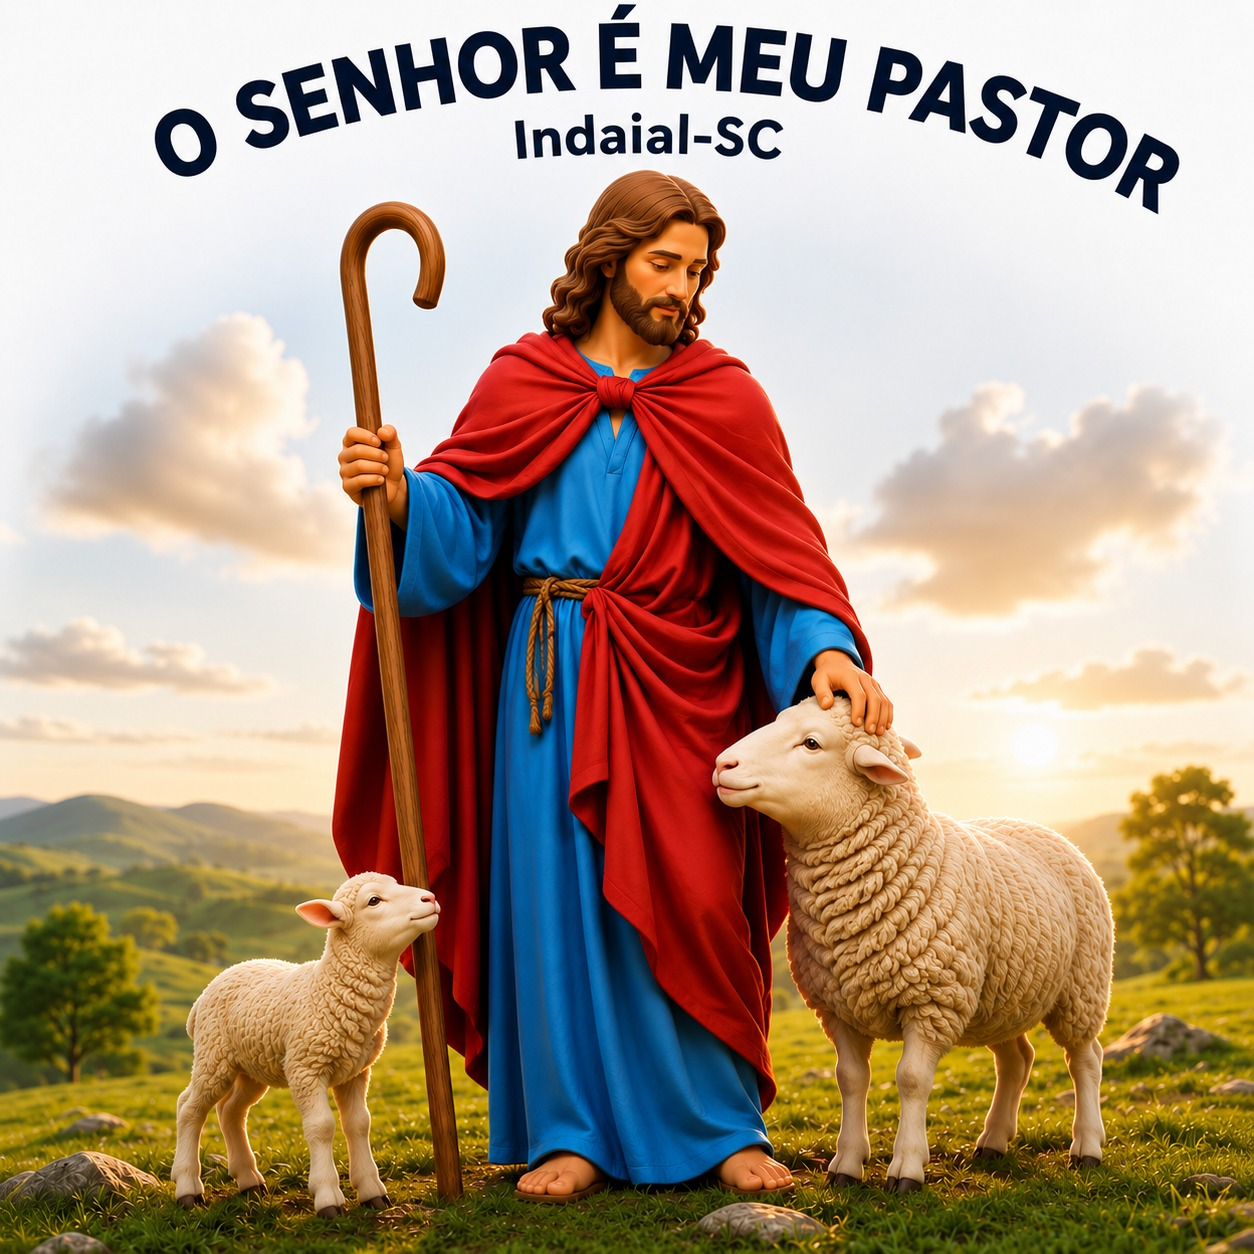
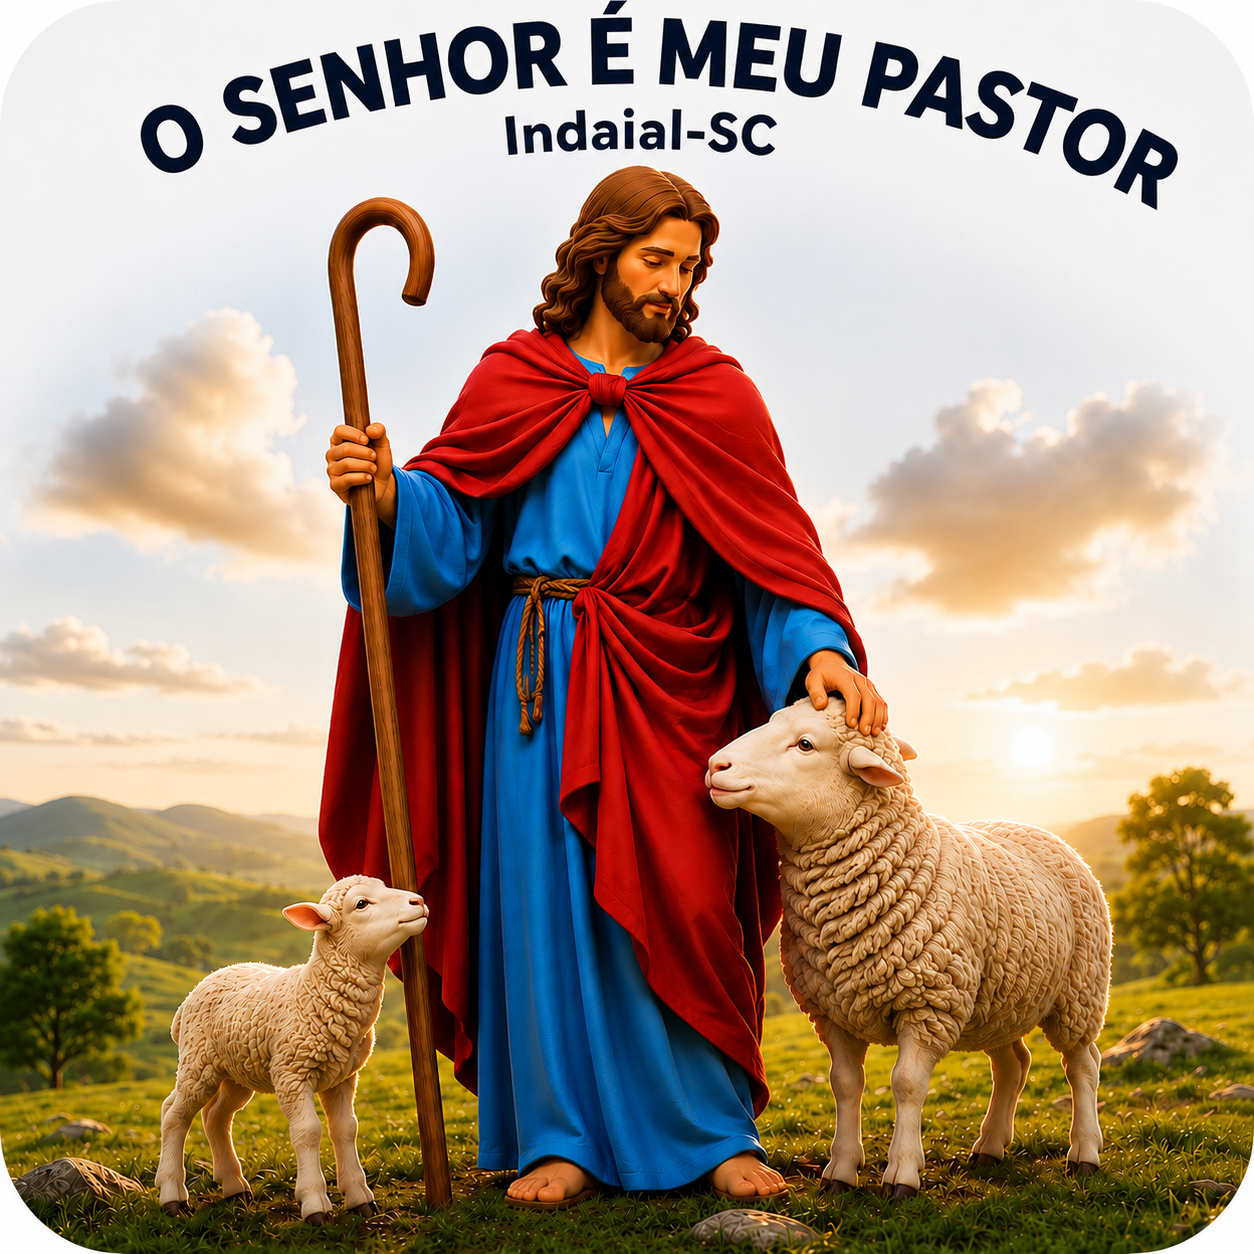
Ajusta opcoes visuais dos crachas

diff --git a/adminApp.js b/adminApp.js
@@ -5378,6 +5378,7 @@ const defaultBadgeSettings = {
   accent: '#47724e',
   text: '#3a2614',
   muted: '#68737a',
+  coupleNameColors: false,
   border: '#d7a752',
   font: 'DM Sans',
   align: 'center',
@@ -5589,6 +5590,17 @@ const badgeDisplayName = (entry) => {
 };
 const badgeSecondaryDisplayName = (entry) => String(entry?.badgeSecondaryName || '').trim();
 const twoLineBadgeText = (value = '') => String(value || '').replace(/\r\n?/g, '\n').split('\n').slice(0, 2).join('\n');
+const badgeCoupleNameColor = (settings, gender = '') => {
+  if (!settings?.coupleNameColors) return '';
+  const normalized = normalizeText(gender);
+  if (normalized === 'masculino') return '#4169e1';
+  if (normalized === 'feminino') return '#ff1493';
+  return '';
+};
+const badgeNameColorStyle = (settings, gender = '') => {
+  const color = badgeCoupleNameColor(settings, gender);
+  return color ? ` style="color:${color}"` : '';
+};
 const badgeSectorDisplayName = (sector = '', names = {}) => {
   const source = String(sector || '').trim();
   if (!source) return '';
@@ -5661,8 +5673,8 @@ const badgeCard = (entry, settings, sector = '', sectorNames = {}, applyConfigur
     ${showLogo ? `<img class="badge-logo" src="${escapeHtml(logo.src)}" alt="${escapeHtml(logo.name)}">` : ''}
     <header>${escapeHtml(settings.topText || '')}</header>
     <div class="badge-main">
-      <strong>${escapeHtml(badgeDisplayName(entry))}</strong>
-      ${secondaryName ? `<em class="badge-secondary-name">${escapeHtml(secondaryName)}</em>` : ''}
+      <strong${badgeNameColorStyle(settings, entry?.badgeNameGender)}>${escapeHtml(badgeDisplayName(entry))}</strong>
+      ${secondaryName ? `<em class="badge-secondary-name"${badgeNameColorStyle(settings, entry?.badgeSecondaryGender)}>${escapeHtml(secondaryName)}</em>` : ''}
       <span>${escapeHtml(badgeSectorText(entry, sector, sectorNames, applyConfiguredSectorNames))}</span>
     </div>
     <footer>${escapeHtml(settings.slogan || '')}</footer>
@@ -5786,7 +5798,7 @@ async function renderCrachas() {
       <fieldset data-badge-panel="logo"><legend>Logo</legend><div class="badge-logo-picker">${logoOptions}</div><div class="badge-range-grid">${stepper('Tamanho', 'logoSize', 10, 32, 0.5, settings.logoSize)}${stepper('Horizontal', 'logoX', 0, 100, 1, settings.logoX)}${stepper('Vertical', 'logoY', 0, 100, 1, settings.logoY)}</div></fieldset>
       <fieldset data-badge-panel="wallpaper" hidden><legend>Papel de parede</legend><input name="wallpaperUrl" type="hidden" value="${escapeHtml(settings.wallpaperUrl)}"><div class="fields three-columns"><label class="field"><span>Op&ccedil;&atilde;o</span><select name="wallpaper">${wallpaperOptions}</select></label><label class="field badge-color-button"><span>Cor do papel</span><span class="color-caption" data-color-caption="accent" style="background:${escapeHtml(settings.accent)}"></span><input name="accent" type="color" value="${escapeHtml(settings.accent)}"></label><label class="field badge-color-button"><span>Cor da borda</span><span class="color-caption" data-color-caption="border" style="background:${escapeHtml(settings.border)}"></span><input name="border" type="color" value="${escapeHtml(settings.border)}"></label></div><div class="badge-range-grid">${stepper('Curvatura do canto', 'corner', 0, 18, 0.5, settings.corner, true)}${stepper('Largura da borda', 'borderWidth', 0, 2.5, 0.1, settings.borderWidth, true)}</div></fieldset>
       <fieldset data-badge-panel="watermark" hidden><legend>Marca d'agua</legend><div class="fields two-columns"><label class="field"><span>Imagem</span><select name="watermark">${watermarkOptions}</select></label><label class="field"><span>Caminho/URL da imagem</span><input name="watermarkUrl" value="${escapeHtml(settings.watermarkUrl)}" placeholder="assets/minha-imagem.png"></label></div><div class="badge-range-grid">${stepper('Opacidade', 'watermarkOpacity', 0, 35, 1, settings.watermarkOpacity, true)}${stepper('Tamanho', 'watermarkSize', 30, 110, 1, settings.watermarkSize, true)}${stepper('Horizontal', 'watermarkX', 0, 100, 1, settings.watermarkX, true)}${stepper('Vertical', 'watermarkY', 0, 100, 1, settings.watermarkY, true)}</div></fieldset>
-      <fieldset data-badge-panel="text" hidden><legend>Texto/tamanho</legend><div class="fields two-columns"><label class="field"><span>Texto superior</span><textarea name="topText" rows="2">${escapeHtml(settings.topText || '')}</textarea></label><label class="field"><span>Slogan do rodap&eacute;</span><textarea name="slogan" rows="2">${escapeHtml(settings.slogan)}</textarea></label></div><div class="fields three-columns"><label class="field"><span>Alterar</span><select name="textTarget"><option value="name" ${settings.textTarget === 'name' ? 'selected' : ''}>Nome</option><option value="sector" ${settings.textTarget === 'sector' ? 'selected' : ''}>Setor</option><option value="topText" ${settings.textTarget === 'topText' ? 'selected' : ''}>Texto Superior</option><option value="slogan" ${settings.textTarget === 'slogan' ? 'selected' : ''}>Slogan</option></select></label><label class="field"><span>Fonte</span><select name="font">${fontOptions}</select></label><label class="field"><span>Alinhamento</span><select name="align"><option value="left">Esquerda</option><option value="center">Centro</option><option value="right">Direita</option></select></label><label class="field badge-color-button"><span>Cor</span><span class="color-caption" data-color-caption="textColor" style="background:${escapeHtml(activeTextColor)}"></span><input name="textColor" type="color"></label>${stepper('Tamanho', 'textSize', 2.5, 16, 0.1, settings.textTarget === 'sector' ? settings.sectorSize : settings.textTarget === 'topText' ? settings.topTextSize : settings.textTarget === 'slogan' ? settings.sloganSize : settings.nameSize, true)}</div></fieldset>
+      <fieldset data-badge-panel="text" hidden><legend>Texto/tamanho</legend><div class="fields two-columns"><label class="field"><span>Texto superior</span><textarea name="topText" rows="2">${escapeHtml(settings.topText || '')}</textarea></label><label class="field"><span>Slogan do rodap&eacute;</span><textarea name="slogan" rows="2">${escapeHtml(settings.slogan)}</textarea></label></div><div class="fields three-columns"><label class="field"><span>Alterar</span><select name="textTarget"><option value="name" ${settings.textTarget === 'name' ? 'selected' : ''}>Nome</option><option value="sector" ${settings.textTarget === 'sector' ? 'selected' : ''}>Setor</option><option value="topText" ${settings.textTarget === 'topText' ? 'selected' : ''}>Texto Superior</option><option value="slogan" ${settings.textTarget === 'slogan' ? 'selected' : ''}>Slogan</option></select></label><label class="field"><span>Fonte</span><select name="font">${fontOptions}</select></label><label class="field"><span>Alinhamento</span><select name="align"><option value="left">Esquerda</option><option value="center">Centro</option><option value="right">Direita</option></select></label><div class="badge-name-color-tools"><label class="field badge-color-button"><span>Cor</span><span class="color-caption" data-color-caption="textColor" style="background:${escapeHtml(activeTextColor)}"></span><input name="textColor" type="color"></label><label class="badge-couple-color-option" data-couple-name-colors><input name="coupleNameColors" type="checkbox" ${settings.coupleNameColors ? 'checked' : ''}><span>Casal</span><small>Feminino Rosa e Masculino Azul</small></label></div>${stepper('Tamanho', 'textSize', 2.5, 16, 0.1, settings.textTarget === 'sector' ? settings.sectorSize : settings.textTarget === 'topText' ? settings.topTextSize : settings.textTarget === 'slogan' ? settings.sloganSize : settings.nameSize, true)}</div></fieldset>
     </form>
     <section class="panel badge-print-panel" id="badge-print-panel" hidden>
       <div class="panel-heading"><div><h2>Imprimir crach&aacute;s</h2><p>Escolha os setores ou comunidades. Ser&atilde;o usados os modelos definidos em "Definir crach&aacute;s por setor/comunidade".</p></div><button type="button" class="secondary-button badge-view-back" data-badge-home>Voltar</button></div>
@@ -5871,6 +5883,8 @@ async function renderCrachas() {
     if (form.elements.align) form.elements.align.value = source[keys.align] || defaultBadgeSettings[keys.align];
     if (form.elements.textSize) form.elements.textSize.value = source[keys.size] || defaultBadgeSettings[keys.size];
     if (form.elements.textColor) form.elements.textColor.value = source[keys.color] || defaultBadgeSettings[keys.color];
+    if (form.elements.coupleNameColors) form.elements.coupleNameColors.checked = Boolean(source.coupleNameColors);
+    form.querySelector('[data-couple-name-colors]')?.toggleAttribute('hidden', target !== 'name');
     syncColorCaptions(source);
   };
   const applySettingsToForm = (source) => {
@@ -5925,6 +5939,7 @@ async function renderCrachas() {
     });
     next.topText = twoLineBadgeText(next.topText);
     next.slogan = twoLineBadgeText(next.slogan);
+    next.coupleNameColors = data.get('coupleNameColors') === 'on';
     const target = data.get('textTarget') || next.textTarget || 'name';
     const keys = textTargetKeys[activeTextTarget] || textTargetKeys.name;
     next.textTarget = target;
@@ -5997,7 +6012,9 @@ async function renderCrachas() {
               id: `${entry.id}-casal-smp-${index}`,
               nome: couple.map((member) => personForBadge(member).nome || member.nome).filter(Boolean).join(' e '),
               badgeName: primaryName,
+              badgeNameGender: person.genero,
               badgeSecondaryName: secondaryName,
+              badgeSecondaryGender: spousePerson.genero,
               badgeCoupleVariant: true,
             },
             sector: item.sector,
@@ -6407,7 +6424,12 @@ async function renderCrachas() {
     profileMenu.hidden = !open;
     profileTrigger.setAttribute('aria-expanded', open ? 'true' : 'false');
   };
+  let suppressProfileFocusOpen = false;
   profileTrigger?.addEventListener('focus', (event) => {
+    if (suppressProfileFocusOpen) {
+      suppressProfileFocusOpen = false;
+      return;
+    }
     if (!profilePicker?.contains(event.relatedTarget)) setProfileMenuOpen(true);
   });
   profileTrigger?.addEventListener('click', () => setProfileMenuOpen(true));
@@ -6428,6 +6450,7 @@ async function renderCrachas() {
     configSelect.value = option.dataset.badgeProfileChoice || '';
     setProfileMenuOpen(false);
     loadSelectedProfile();
+    suppressProfileFocusOpen = true;
     profileTrigger.focus();
   });
   profileMenu?.addEventListener('keydown', (event) => {

diff --git a/scripts/test-badge-workflows.js b/scripts/test-badge-workflows.js
@@ -39,10 +39,16 @@ assert.match(appSource, /next\.topText = twoLineBadgeText\(next\.topText\);[\s\S
 assert.match(appSource, /<option value="topText"[^>]*>Texto Superior<\/option>/, 'O seletor Alterar deve incluir Texto Superior.');
 assert.match(appSource, /topText: \{ font: 'topTextFont', align: 'topTextAlign', size: 'topTextSize', color: 'topTextColor' \}/, 'Texto Superior deve ter controles proprios de fonte, alinhamento, tamanho e cor.');
 assert.match(appSource, /<header>\$\{escapeHtml\(settings\.topText \|\| ''\)\}<\/header>/, 'O crachá deve renderizar o texto superior acima do nome.');
+assert.match(appSource, /coupleNameColors: false/, 'A cor automática por casal deve iniciar desligada nos modelos antigos.');
+assert.match(appSource, /name="coupleNameColors" type="checkbox"/, 'A configuração do nome deve permitir ativar cores por casal.');
+assert.match(appSource, /Feminino Rosa e Masculino Azul/, 'A opção de casal deve explicar as cores automáticas.');
+assert.match(appSource, /badgeCoupleNameColor[\s\S]*#4169e1[\s\S]*#ff1493/, 'Nomes masculinos e femininos devem usar Azul Royal e Rosa Pink.');
+assert.match(appSource, /toggleAttribute\('hidden', target !== 'name'\)/, 'A opção Casal deve aparecer somente ao configurar o nome.');
 assert.match(styles, /\.badge-card \{[^}]*grid-template-rows:auto 1fr auto/, 'O crachá deve reservar faixas para texto superior, conteúdo e rodapé.');
 assert.match(styles, /\.badge-card header \{[^}]*--badge-top-text/, 'O texto superior deve ter estilo proprio no topo do crachá.');
 assert.match(styles, /\.badge-card header \{[^}]*white-space:pre-line/, 'O texto superior deve preservar quebras de linha.');
 assert.match(styles, /\.badge-card footer \{[^}]*white-space:pre-line/, 'O slogan deve preservar quebras de linha.');
+assert.match(styles, /\.badge-name-color-tools \{/, 'A opção de cores do casal deve ficar agrupada ao seletor de cor.');
 
 const assignmentFunctionStart = appSource.indexOf('const renderBadgeAssignmentsPanel');
 const assignmentFunctionEnd = appSource.indexOf('const renderBadgeSectorNamesPanel', assignmentFunctionStart);

diff --git a/styles.css b/styles.css
@@ -269,6 +269,10 @@
 .badge-secondary-name { display:block; justify-self:var(--badge-name-justify); max-width:100%; margin-top:1mm; color:var(--badge-text); font-family:var(--badge-name-font),'DM Sans',sans-serif; font-size:calc(var(--badge-name) * .62); line-height:1; font-style:normal; font-weight:800; text-align:var(--badge-name-align); overflow-wrap:anywhere; }
 .badge-main span { display:block; justify-self:var(--badge-sector-justify); max-width:100%; margin-top:2.2mm; color:var(--badge-muted); font-family:var(--badge-sector-font),'DM Sans',sans-serif; font-size:var(--badge-sector); line-height:1.12; font-weight:800; text-align:var(--badge-sector-align); text-transform:uppercase; overflow-wrap:anywhere; }
 .badge-card footer { position:relative; z-index:2; align-self:end; justify-self:var(--badge-slogan-justify); max-width:100%; min-height:6mm; color:var(--badge-slogan-color); font-family:var(--badge-slogan-font),'DM Sans',sans-serif; font-size:var(--badge-slogan); line-height:1.15; font-weight:800; text-align:var(--badge-slogan-align); white-space:pre-line; overflow-wrap:anywhere; }
+.badge-name-color-tools { display:grid; grid-template-columns:minmax(0,1fr) auto; gap:10px; align-items:end; }
+.badge-couple-color-option { display:grid; grid-template-columns:auto 1fr; gap:2px 7px; align-items:center; min-height:58px; padding:8px 10px; border:1px solid var(--line); border-radius:7px; background:#fffdf7; font-weight:800; cursor:pointer; }
+.badge-couple-color-option input { width:16px; height:16px; margin:0; accent-color:var(--leaf); }
+.badge-couple-color-option small { grid-column:1 / -1; color:var(--muted); font-size:10px; line-height:1.15; font-weight:700; }
 .badge-print-area { display:none; }
 .badge-print-sheet { display:grid; grid-template-columns:repeat(2,95mm); grid-template-rows:repeat(4,65mm); align-content:start; justify-content:start; gap:2mm; width:210mm; height:297mm; padding:6mm; background:#fff; break-after:page; page-break-after:always; overflow:hidden; }
 .badge-print-sheet:last-child { break-after:auto; page-break-after:auto; }

diff --git a/badgeParticipants.js b/badgeParticipants.js
@@ -20,8 +20,8 @@ export function buildCommunityStudentBadgeEntries({ community = {}, students = [
       const sourceId = text(student.id || student.numeroFichaSmp || student.cpf);
       if (isCouple) {
         const participants = [
-          { fullName: text(student.nomeDele), customBadgeName: studentFormType === 'cursista-smp' ? text(student.nomeCrachaDele) : '' },
-          { fullName: text(student.nomeDela), customBadgeName: studentFormType === 'cursista-smp' ? text(student.nomeCrachaDela) : '' },
+          { fullName: text(student.nomeDele), customBadgeName: studentFormType === 'cursista-smp' ? text(student.nomeCrachaDele) : '', gender: 'masculino' },
+          { fullName: text(student.nomeDela), customBadgeName: studentFormType === 'cursista-smp' ? text(student.nomeCrachaDela) : '', gender: 'feminino' },
         ].filter((participant) => participant.fullName);
         if (studentFormType === 'cursista-smp' && participants.length >= 2) {
           if (!sourceId) return null;
@@ -35,7 +35,9 @@ export function buildCommunityStudentBadgeEntries({ community = {}, students = [
                 id: `student-${studentFormType}-${sourceId}-${index}`,
                 nome: participants.map((item) => item.fullName).join(' e '),
                 badgeName: primaryName,
+                badgeNameGender: participant.gender,
                 badgeSecondaryName: secondaryName,
+                badgeSecondaryGender: spouse.gender,
                 setores: [label],
                 badgeParticipantType: 'student',
                 badgeCoupleVariant: true,

diff --git a/scripts/test-badge-profile-picker.js b/scripts/test-badge-profile-picker.js
@@ -10,9 +10,11 @@ assert.match(appSource, /id="badge-profile-trigger"[^>]*aria-haspopup="listbox"/
 assert.match(appSource, /id="badge-profile-menu" role="listbox" hidden/);
 assert.match(appSource, /badge-profile-thumbnail[^`]*sampleBadgeCard\(thumbnailSettings\)/);
 assert.match(appSource, /profileTrigger\?\.addEventListener\('focus'/, 'A lista deve abrir quando o campo recebe foco.');
+assert.match(appSource, /let suppressProfileFocusOpen = false;/, 'O foco programático após selecionar modelo não deve reabrir a lista.');
 assert.match(appSource, /data-badge-profile-choice/);
 assert.match(appSource, /configSelect\.value = option\.dataset\.badgeProfileChoice/);
 assert.match(appSource, /loadSelectedProfile\(\)/, 'A escolha visual deve reutilizar o carregamento atual do modelo.');
+assert.match(appSource, /setProfileMenuOpen\(false\);[\s\S]*loadSelectedProfile\(\);[\s\S]*suppressProfileFocusOpen = true;[\s\S]*profileTrigger\.focus\(\);/, 'Ao selecionar um modelo, a lista deve fechar e permanecer fechada.');
 assert.match(appSource, /ArrowDown/);
 assert.match(appSource, /Escape/);
 assert.match(styles, /\.badge-profile-menu \{/);

diff --git a/scripts/test-badge-student-community.js b/scripts/test-badge-student-community.js
@@ -44,9 +44,13 @@ const path = require('node:path');
   });
   assert.equal(smp.length, 2, 'SMP deve gerar dois crachás por casal, alternando o cônjuge em destaque.');
   assert.equal(smp[0].entry.badgeName, 'Carlos');
+  assert.equal(smp[0].entry.badgeNameGender, 'masculino');
   assert.equal(smp[0].entry.badgeSecondaryName, 'Maria');
+  assert.equal(smp[0].entry.badgeSecondaryGender, 'feminino');
   assert.equal(smp[1].entry.badgeName, 'Maria');
+  assert.equal(smp[1].entry.badgeNameGender, 'feminino');
   assert.equal(smp[1].entry.badgeSecondaryName, 'Carlos');
+  assert.equal(smp[1].entry.badgeSecondaryGender, 'masculino');
   assert.equal(smp[0].sector, 'Comunidade Verde');
 
   const smpWithBadgeNames = buildCommunityStudentBadgeEntries({
